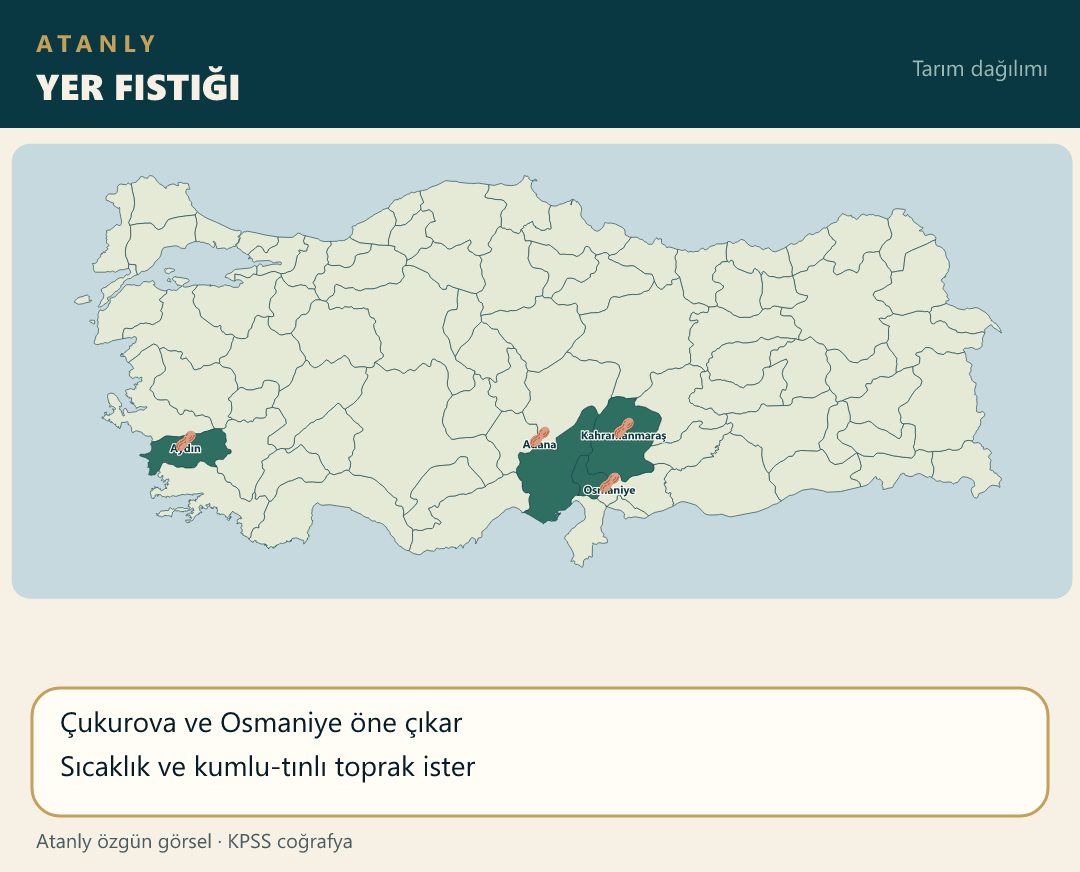
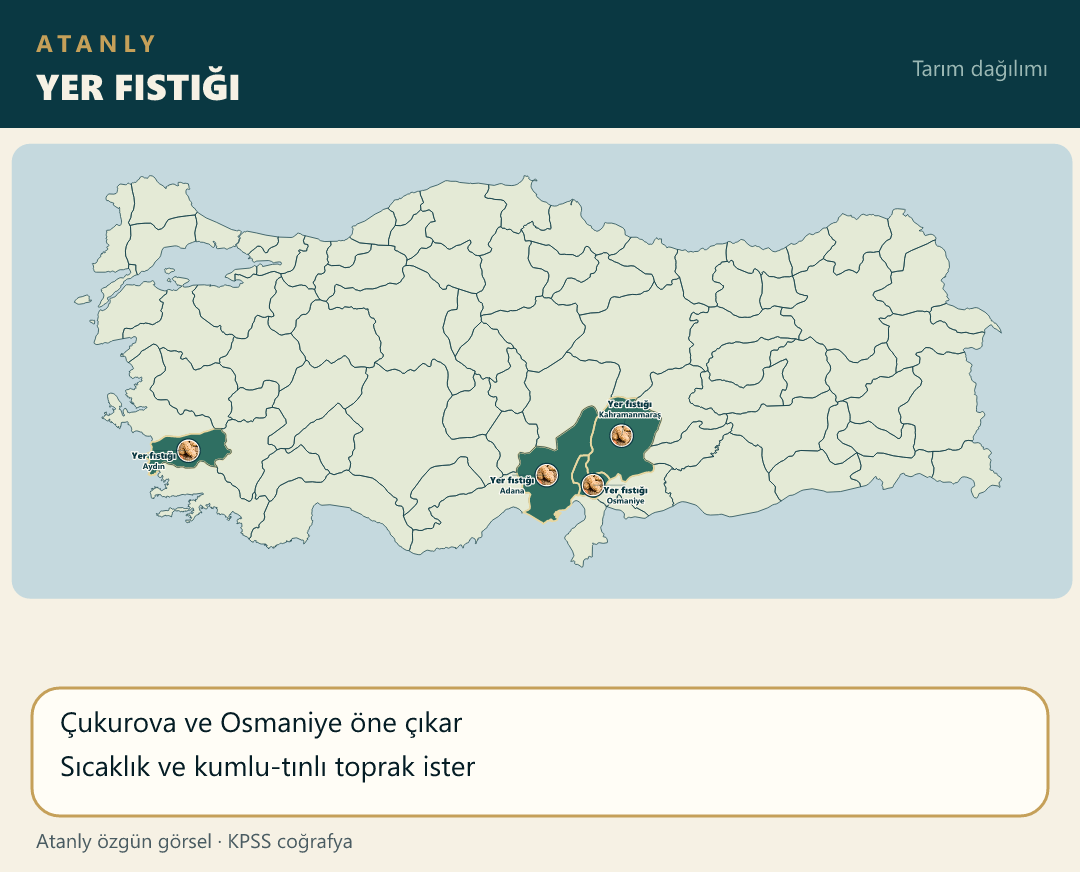
Place the peanut photo on Aydin, Adana, Osmaniye, and Kahramanmaras land-center pins.

diff --git a/scripts/build-atanly-maps.js b/scripts/build-atanly-maps.js
@@ -735,7 +735,14 @@ function main() {
                 { il: "Muş", ldx: 32, ldy: 8 }
             ],
             facts: ["Ege ve Karadeniz’de klasik üretim alanları", "Doğu Anadolu’da da ekilir"] },
-        { file: "yer_fıstık.png", title: "YER FISTIĞI", iller: ["Osmaniye", "Adana", "Aydın", "Kahramanmaraş"], facts: ["Çukurova ve Osmaniye öne çıkar", "Sıcaklık ve kumlu-tınlı toprak ister"] },
+        { file: "yer_fıstık.png", title: "YER FISTIĞI", urun: "Yer fıstığı",
+            noktalar: [
+                { il: "Osmaniye", ldx: 32, ldy: 8 },
+                { il: "Adana", ldx: -34, ldy: 8 },
+                { il: "Aydın", ldx: -34, ldy: 8 },
+                { il: "Kahramanmaraş", ldx: 8, ldy: -28 }
+            ],
+            facts: ["Çukurova ve Osmaniye öne çıkar", "Sıcaklık ve kumlu-tınlı toprak ister"] },
         { file: "antep_fıstık.png", title: "ANTEP FISTIĞI", urun: "Antep fıstığı",
             noktalar: [
                 { il: "Gaziantep", ilce: "Nizip" },

diff --git a/notlar/cografya-19-not.js b/notlar/cografya-19-not.js
@@ -2,7 +2,7 @@
 (function () {
     function harita(src, alt) {
         return '<div class="mt-4 overflow-hidden rounded-xl border border-blue-200 dark:border-blue-700/50 bg-white dark:bg-slate-800 p-2">' +
-            '<img src="./src/img/' + src + '?v=39" alt="' + alt + ' Haritası" class="w-full h-auto rounded-lg object-contain" loading="lazy">' +
+            '<img src="./src/img/' + src + '?v=40" alt="' + alt + ' Haritası" class="w-full h-auto rounded-lg object-contain" loading="lazy">' +
             "</div>";
     }
 

diff --git a/index.html b/index.html
@@ -117,7 +117,7 @@
     <script src="notlar/cografya-16-not.js?v=3"></script>
     <script src="notlar/cografya-17-not.js?v=3"></script>
     <script src="notlar/cografya-18-not.js?v=18"></script>
-    <script src="notlar/cografya-19-not.js?v=35"></script>
+    <script src="notlar/cografya-19-not.js?v=36"></script>
     <script src="notlar/cografya-20-not.js?v=1"></script>
     <script src="notlar/cografya-21-not.js?v=32"></script>
     <script src="notlar/cografya-22-not.js?v=1"></script>
